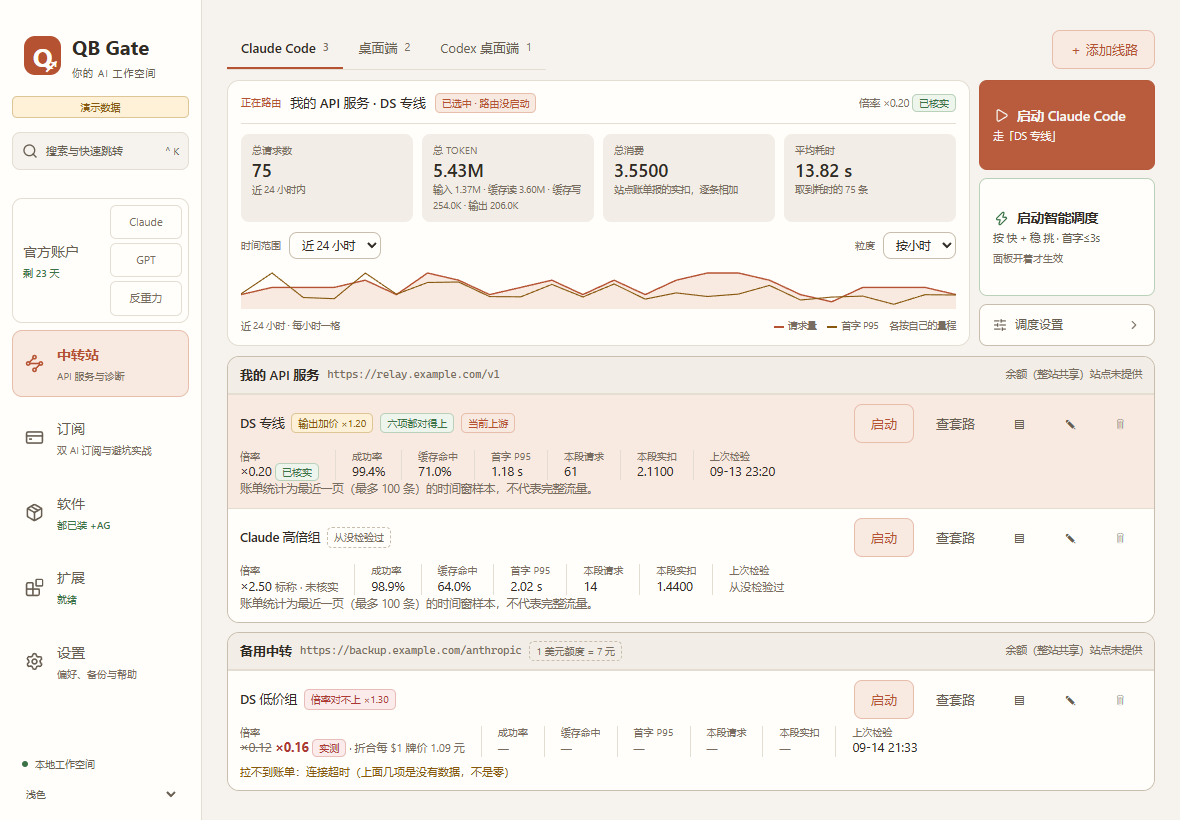
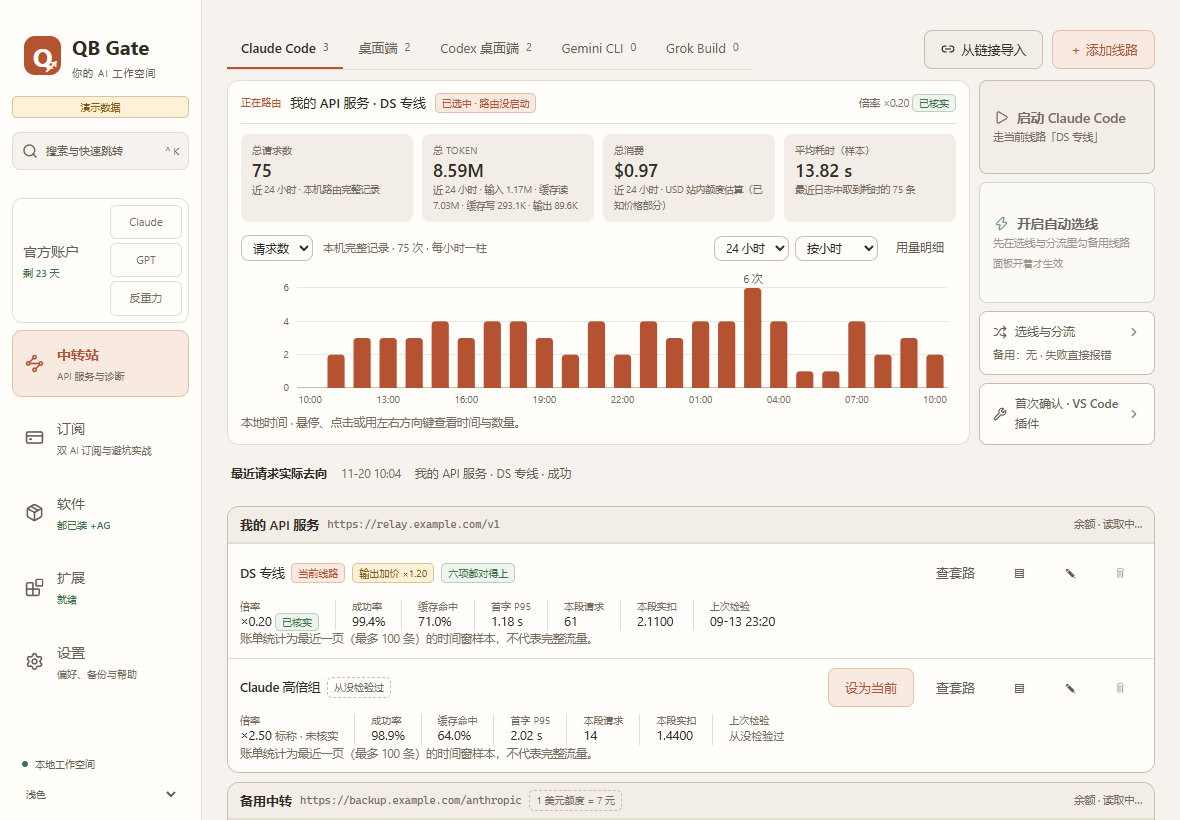
README：换上新的中转站截图，加浏览器助手页截图

diff --git a/README.en.md b/README.en.md
@@ -95,6 +95,11 @@ Screenshots use demo data.
 | ![Software installation and version management](docs/screenshots/software.png) | ![Diagnostic results and available actions](docs/screenshots/checkup-repair-light.png) |
 | **Tools and versions**: discovery, upgrades and rollback                       | **Checks and actions**: inspect and address individual results                         |
 
+| Browser helper                                                                                  |
+| ----------------------------------------------------------------------------------------------- |
+| ![Browser helper: three install steps and each browser's connection](docs/screenshots/browser-helper.png) |
+| **Three steps**: open the extension folder, load it in Chrome, click "连接浏览器"; below, each browser's connection and protection state |
+
 ## Documentation and community
 
 - [Mac installation and builds](docs/MACOS.zh-CN.md) · [Windows installation help (antivirus false positives)](docs/ANTIVIRUS.zh-CN.md) · [Known limitations](docs/KNOWN-ISSUES.zh-CN.md) · [Browser helper](browser-extension/README.md) · [Releases](https://github.com/smithtaylor7748-ops/qb-gate/releases)

diff --git a/README.md b/README.md
@@ -93,6 +93,11 @@ Claude、Codex、反重力的官方账户，你自己的中转线路，装在电
 | ![软件安装与版本管理](docs/screenshots/software.png) | ![环境检测与处理入口](docs/screenshots/checkup-repair-light.png) |
 | **安装与版本**：工具检测、升级和回滚                 | **检测与处理**：查看明细，按项处理                               |
 
+| 浏览器助手                                                                 |
+| -------------------------------------------------------------------------- |
+| ![浏览器助手：三步装好与各个浏览器的连接状态](docs/screenshots/browser-helper.png) |
+| **三步装好**：打开插件文件夹、在 Chrome 里加载、点「连接浏览器」；下面是每个浏览器的连接与保护状态 |
+
 ## 文档与社区
 
 - [Mac 安装与构建](docs/MACOS.zh-CN.md) · [Windows 安装帮助（杀软误报）](docs/ANTIVIRUS.zh-CN.md) · [已知限制](docs/KNOWN-ISSUES.zh-CN.md) · [浏览器助手说明](browser-extension/README.md) · [版本记录](https://github.com/smithtaylor7748-ops/qb-gate/releases)
